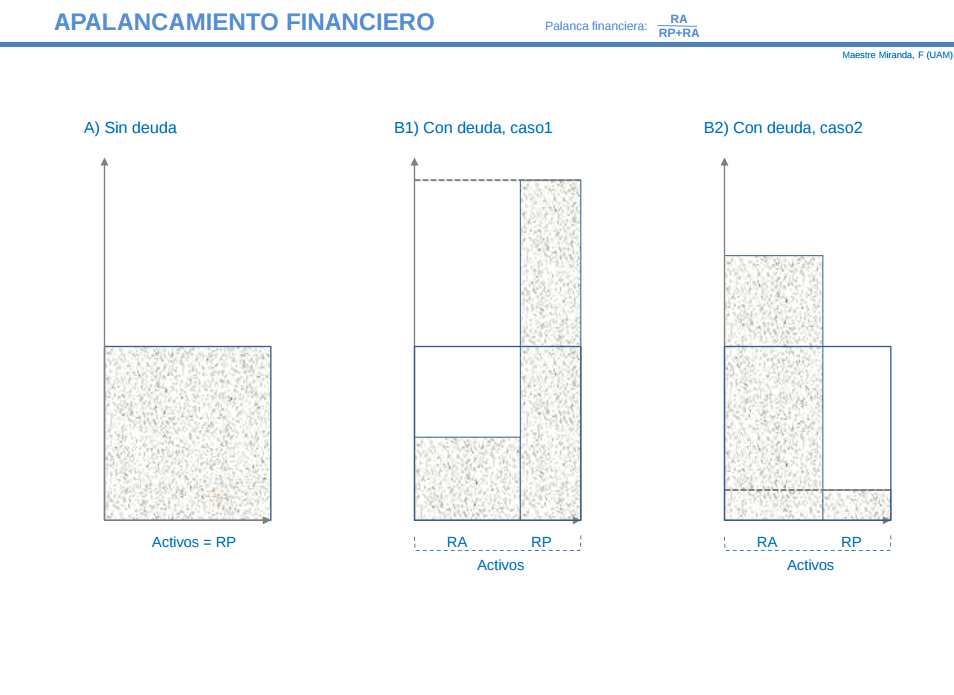
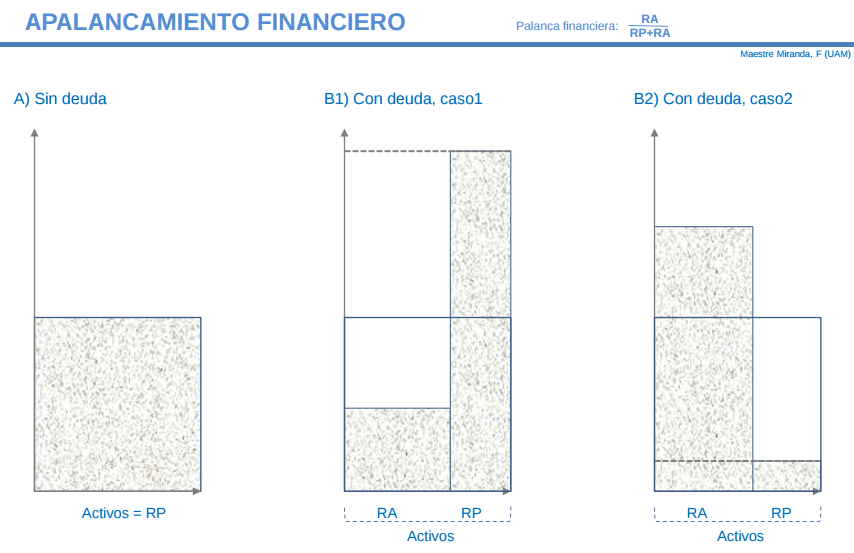
ORGEM: Pasado todo lo del cajón desastre a sus correspondientes secciones

diff --git a/Organizacion de Empresas/ORGEM.tex b/Organizacion de Empresas/ORGEM.tex
@@ -15,6 +15,8 @@
 \usepackage{soulutf8}
 \usepackage{enumitem}
 
+\setlist{itemsep=1pt, topsep=5pt}
+
 \newcommand{\study}[1]{#1} \newcommand{\substudy}[1]{#1}
 %\newcommand{\study}[1]{\hl{#1}} \newcommand{\substudy}[1]{\ul{#1}}
 \setulcolor{Orange}
@@ -1163,7 +1165,6 @@ Supongamos que una persona está contemplando la posibilidad de poner un kiosco 
 \item Luego tendrá que comprar otro equipamiento por unos 1000 \texteuro.
 \end{itemize}
 
-
 Además, un pequeño estudio de mercado y de la situación económica actual le permite ver que:
 \begin{itemize}
 \item La venta diaria se estima entre los 200 y los 300 euros.
@@ -1183,14 +1184,10 @@ Podemos poner un 23\% para realizar los cálculos.
 \item La tasa impositiva la calcula en un 20\% aproximadamente.
 \end{itemize}
 
-Procedemos a estudiar la previabilidad estática (con los datos aportados por las transparencias) \footnote{Lo que esta subrayado es lo que había que completar}:
+Procedemos a estudiar la previabilidad estática (con los datos aportados por las transparencias) \footnote{Lo que esta subrayado es lo que había que completar}. En la \fref{tab:CuotaMensualAmortizacion} vemos cuál sería la cuota mensual de amortización.
 
-
-\begin{center}
-Calculamos la cuota mensual de la amortización
-\end{center}
-
-\begin{center}
+\begin{table}
+\centering
 \normalfont\small
 \begin{tabular}{l|c|c|c}
 \textbf{Concepto} & \textbf{Inversión} & \textbf{Num años} & \textbf{Amortización} \\
@@ -1200,7 +1197,9 @@ Herramientas y otros & 1.000 & 3 & \underline{28} \\
 \bottomrule
 Total &21.000  & - & 361 \\
 \end{tabular}
-\end{center}
+\caption{Cálculo de la cuota mensual de amortización.}
+\label{tab:CuotaMensualAmortizacion}
+\end{table}
 
 Con esto podemos calcular la rentabilidad, para lo que empezamos calculando los ingresos netos mensuales.
 
@@ -1329,8 +1328,7 @@ Muchas \textit{startups}, especialmente las más conocidas, funcionan así con p
 \substudy{¿Dónde está el truco entonces?} Resulta que las \textit{startups} consiguen financiación gracias a los \substudy{inversores} de capital riesgo (VC, Venture Capitalists) y otros.
 Esta gente no busca rentabilidad, ni siquiera un modelo de negocio validado, sino principalmente crecimiento que en algún momento en el futuro se pueda convertir en dinero, no necesariamente sacado del funcionamiento de la empresa: basta con que otra más grande la compre (lo que se llama un \textit{exit}) para que los inversores recuperen lo invertido.
 
-Precisamente por eso se ha montado todo un ecosistema alrededor de las \textit{startups} y el mundo \textit{entrepeneur}\footnote{Nota: la mitad de la gente que pronuncia esta palabra (especialmente si te la dice en inglés mientras habla contigo en español) está vendiendo humo y/o no sabe de lo que habla.}:
-es un mundo con mucho riesgo (muchísimas empresas acaban fallando y perdiendo dinero a espuertas) pero también con muchas posibilidades de ganar mucho dinero, incluso teniendo en cuenta las compañías que fallan.
+Precisamente por eso se ha montado todo un ecosistema alrededor de las \textit{startups} y el mundo \textit{``entrepeneur''}: es un mundo con mucho riesgo (muchísimas empresas acaban fallando y perdiendo dinero a espuertas) pero también con muchas posibilidades de ganar mucho dinero, incluso teniendo en cuenta las compañías que fallan.
 Así se entiende el éxito de inversores y grupos de inversión, concursos de \textit{startups} y de aceleradoras como \href{https://www.ycombinator.com/}{Y Combinator}\footnote{Pongo a Y Combinator más que nada porque su ``líder'', Paul Graham, tiene \href{http://paulgraham.com/articles.html}{ensayos muy interesantes}, como \href{http://paulgraham.com/startuplessons.html}{este sobre las lecciones más importantes para una startup}, y en general es un tipo que, a pesar de estar metido en \textit{startups}, está alejado de la charla vacía, palabrería y humo que suele rodear a este mundo.},
 organizaciones que ``acogen'' \textit{startups} recién creadas y les dan un empujón (por eso lo de aceleradora) con una pequeña inversión, consejos técnicos y de organización y poniéndoles en contacto con otras empresas, inversores y periodistas.
 
@@ -1435,39 +1433,9 @@ Así estos préstamos \substudy{suelen} tener por objeto la compra de \substudy{
 
 Suelen tener un \substudy{plazo de recuperación} mucho \substudy{mayor} que el de los \textbf{préstamos personales} \substudy{y} tener un \substudy{interés variable} (en contra del interés fijo de los \textbf{préstamos personales}). Este tipo de interés variable suele hacerse empleando el Euribor, que explicamos en la sección \ref{sec:TiposInteres}
 
-\paragraph{Crisis económica}
-A lo largo del curso hemos comentado en diversas ocasiones cuál fue el origen de la crisis mundial que a día de hoy aún nos asola y el papel que tuvo esta empresa en dicho origen.
-
-El principal causante de la crisis financiera fue la \textbf{avaricia} de los bancos quienes, considerando que las cosas siempre irían bien y la economía nunca dejaría de crecer, comenzaron a conceder préstamos hipotecarios muy por encima de las posibilidades del cliente.
-
-Mientras las cosas fueron bien no hubo ningún problema, pero cuando empezó a fallar, los bancos se encontraron con un montón de préstamos que los clientes eran incapaces de pagar, lo que provocó la auténtica crisis.
-
-A priori puede parecer que esto debería haber perjudicado únicamente a los bancos pero esto no es así, puesto que los bancos \textbf{venden las deudas}. Para comprenderlo veamos un pequeño ejemplo, similar a algunos descritos por el profesor a lo largo del curso:
-
-\begin{example}
-Supongamos que tenemos tres compañeros: Pedro, Guillermo y Víctor.
-
-Guillermo tiene una gran cantidad de dinero acumulado y hará los papeles de banco. Víctor será quien demanda un préstamos y Pedro quien esté interesado, posteriormente, en comprar deuda.
-
-Guillermo le concede un préstamos a Víctor por valor de 1000 \texteuro . Como condición del préstamo, Víctor deberá pagar 100 \texteuro  todos los meses durante un año. A priori esto hace ganar a Guillermo 200 \texteuro  al final del año.
-
-Sin embargo, Guillermo quiere más. Puesto que pretende invertir y realizar más préstamos, le interesa recuperar el dinero cuanto antes. Así, vende la deuda de 1000 \texteuro  de Víctor, que Pedro compra con la esperanza de recibir 1100 \texteuro  a final de año.
-
-Con este sistema todos están contentos: Víctor ha recibido su préstamo, Guillermo acaba de ganar 100 \texteuro  y Pedro ganará 100 \texteuro , estando ambas ganancia estrechamente ligadas a la capacidad de pago mensual de Víctor.
-
-El problema viene cuando Víctor no puede pagar, Guillermo no se cubrió bien las espaldas y no tiene forma de recuperar su dinero y Pedro exige lo que le corresponde.
-\end{example}
-
-Otro factor importante en esta crisis fue el hecho de que la \substudy{deuda se vendía como} deuda sana, es decir, deuda que será pagada sin lugar a dudas pues ha sido \substudy{correctamente avalada}, \substudy{cuando realmente no lo era}.
-Así los clientes compraban deuda con un margen de beneficio ``pequeño'' porque era deuda saneada pero se encontraban con que esto no era cierto.
-
-Ante la posible idea de compensar al estafado y no ayudar al banco, cabe destacar que el banco no vendía la deuda de una persona a otra o a un conjunto de compradores en forma de bloque. De ser así podría identificarse a la víctima y ayudarla a recuperar su dinero.
-
-La realidad es mucho más compleja pues el \substudy{banco vende bloques de deuda} de forma que es imposible reconocer qué parte de la deuda de una persona compró quien con lo que \substudy{no es posible identificar a las víctimas de manera unívoca}.
-
 \subsubsection{Tipos de amortización}
 
-Los préstamos se pueden devolver (amortizar) según dos sistemas\footnote{\study{En España sólo existe el francés} y es muy difícil poder cambiarlo. En los países civilizados es posible negociar las condiciones creando préstamos \textbf{financieramente equivalentes} con las cuotas distribuidas de otra forma}: el americano o el francés.
+Los préstamos se pueden devolver (amortizar) según dos sistemas\footnote{\study{En España sólo existe el francés} y es muy difícil poder cambiarlo. En los países civilizados es posible negociar las condiciones creando préstamos \textbf{financieramente equivalentes} con las cuotas distribuidas de otra forma.}: el americano o el francés.
 El \concept{Préstamo\IS americano} consiste en ir \substudy{pagando en cada cuota los intereses fijos} del préstamo, y \substudy{en la última devolver el importe íntegro} del mismo.
 A veces, en lugar de devolver ese importe de golpe lo que se hace es ir depositando aportaciones en un fondo periódicamente, de tal forma que se vayan generando intereses ahí y podamos usar ese dinero acumulado para devolver el monto del préstamo.
 
@@ -1500,7 +1468,7 @@ En el segundo plazo, volveremos a pagar los 811 \texteuro, pero esta vez habrá 
 
 En el segundo plazo pagamos 263 \texteuro de intereses y (811-263) = 548 \texteuro
 
-Así, sucedáneamente llegaríamos a completar la tabla entera, que podemos encontrar en el apéndice \ref{sec:Prestamos}
+Así, al final llegaríamos a completar la tabla entera, que podemos encontrar en el apéndice \ref{sec:Prestamos}
 
 \paragraph{Americano} Como es una amortización americana, sólo vamos pagando los intereses en cada plazo, esto es, 267\texteuro. Esta será nuestra cuota los primeros 59 plazos y en el último plazo tendremos que pagar 40.267\texteuro.
 \end{example}
@@ -1520,7 +1488,35 @@ Aquí merece la pena mencionar el tema de las \concept{Cláusula\IS suelo}, una 
 así, si tenemos un tipo de interés Euribor + 0,5\% con una cláusula suelo del 2\%, aunque el Euribor baje al 0,5\% nosotros seguiremos pagando un bonito 2\% de interés. \substudy{No es una cláusula ilegal, aunque sí cuando} se pone de forma abusiva o no se informa de ello al consumidor.
 Últimamente, pocos bancos ponen esta cláusula.
 
+\subsection{Hipotecas y crisis económica}
 
+A lo largo del curso hemos comentado en diversas ocasiones cuál fue el origen de la crisis mundial que a día de hoy aún nos asola y el papel que tuvieron empresas como Lehman Brothers en dicho origen.
+
+El principal causante de la crisis financiera fue la \textbf{avaricia} de los bancos quienes, considerando que las cosas siempre irían bien y la economía nunca dejaría de crecer, comenzaron a conceder préstamos hipotecarios muy por encima de las posibilidades del cliente. Estas eran las \concept{Hipoteca\IS subprime}, orientadas a clientes con escasa solvencia (y por lo tanto mayor riesgo de impago) con intereses y comisiones más elevados.
+
+Mientras las cosas fueron bien no hubo ningún problema. Ahora bien, cuando el precio de las casas empezó a bajar, bajó también la capacidad de gasto de esas familias y el impago de las hipotecas subió. Los bancos, que estimaban el riego de forma independiente por cada hipoteca, no tuvieron en cuenta que riesgo de impago de una hipoteca estaba muy correlacionado con el de el resto: los consumidores no están aislados y un freno de la economía llevaría a muchos al impago con alta probabilidad. Así, no estaban preparados para un nivel de impago tan alto y por lo tanto se encontraron con que ciertos productos financieros cayeron de valor precipitadamente.
+
+A priori puede parecer que esto debería haber perjudicado únicamente a los bancos que concedían las hipotecas pero esto no es así, puesto que los bancos \textbf{venden las deudas}. Para comprenderlo veamos un pequeño ejemplo, similar a algunos descritos por el profesor a lo largo del curso:
+
+\begin{example}
+Supongamos que tenemos tres compañeros: Pedro, Guillermo y Víctor.
+
+Guillermo tiene una gran cantidad de dinero acumulado y hará los papeles de banco. Víctor será quien demanda un préstamo y Pedro quien esté interesado, posteriormente, en comprar deuda.
+
+Guillermo le concede un préstamo a Víctor por valor de 1000 \texteuro . Como condición del préstamo, Víctor deberá pagar 100 \texteuro  todos los meses durante un año. A priori esto hace ganar a Guillermo 200 \texteuro  al final del año.
+
+Sin embargo, Guillermo quiere más. Puesto que pretende invertir y realizar más préstamos, le interesa recuperar el dinero cuanto antes. Así, vende la deuda de 1000 \texteuro  de Víctor, que Pedro compra con la esperanza de recibir 1100 \texteuro  a final de año.
+
+Con este sistema todos están contentos: Víctor ha recibido su préstamo, Guillermo acaba de ganar 100 \texteuro  y Pedro ganará 100 \texteuro , estando ambas ganancia estrechamente ligadas a la capacidad de pago mensual de Víctor.
+
+El problema viene cuando Víctor no puede pagar, Guillermo no se cubrió bien las espaldas y no tiene forma de recuperar su dinero y Pedro exige lo que le corresponde.
+\end{example}
+
+Otro factor importante en esta crisis fue el hecho de que la \substudy{deuda se vendía como} deuda sana, es decir, deuda que será pagada con alta probabilidad pues ha sido \substudy{correctamente avalada}, \substudy{cuando realmente no lo era}. Así los clientes compraban deuda con un margen de beneficio ``pequeño'' porque era deuda saneada pero se encontraban con que esto no era cierto.
+
+Ante la posible idea de compensar al estafado y no ayudar al banco, cabe destacar que el banco no vendía la deuda de una persona a otra sino a un conjunto de compradores en forma de bloques de deuda (las llamadas CDOs\footnotemark). Así, es imposible reconocer qué parte de la deuda de una persona compró quien con lo que \substudy{no es posible identificar a las víctimas de manera unívoca}.
+
+\footnotetext{A grandes rasgos, en una CDO una entidad financiera construye una empresa. Esta empresa emite bonos a inversores y con ese dinero compra activos, como hipotecas o deuda de otros bancos. Cuando esas hipotecas y deudas vencen, ese importe acaba en la empresa y por lo tanto da beneficios a los inversores. El problema es que había ``escalones'' de bonos: los beneficios iban primero a parar a los inversores después del escalón, después a los del segundo, etc. Los últimos eran los primeros en asumir pérdidas si había impagos. Esto podía llevar a problemas graves, como CDOs creadas con bonos del último escalón de otros CDOs: con muchos impagos, estas CDOs encadenadas pasaban a valer cero en un momento.}
 
 \subsection{Estructura financiera}
 Hemos comentado, al hablar de los préstamos, que los grandes empresarios acostumbran a vivir endeudados, puesto que sacan gran rentabilidad al dinero. Vamos a ver detenidamente cómo analizar la situación de la empresa para ver en qué momento nos interesa endeudarnos y cuándo no.
@@ -1566,8 +1562,8 @@ La pregunta ahora es clara \textbf{¿Cuándo interesa a una empresa apalancarse?
 
 \begin{figure}[hbtp]
 \centering
-\includegraphics[width=\textwidth]{img/apalancamiento.png}
-\caption{Las tres empresas tienen el mismo capital (los mismos recursos) pero con distinta proporcion de RA (Recursos Ajenos) y RP (Recursos Propios)}
+\includegraphics[width=0.8\textwidth]{img/apalancamiento.png}
+\caption{Las tres empresas tienen el mismo capital (los mismos recursos) pero con distinta proporcion de RA (Recursos Ajenos) y RP (Recursos Propios).}
 \label{fig:ApalancamientoFinanciero}
 \end{figure}
 
@@ -1621,7 +1617,7 @@ En la figura \ref{fig:Letra} encontramos un ejemplo de una letra con todos sus e
 
 \paragraph{Endosos: }
 El pago de la letra de cambio se puede realizar al librador o a un tercero llamado beneficiario, \substudy{tomador o tenedor}, a quien el librador ha transmitido o endosado la letra de cambio.
-Aquel que endosa una deuda es un \textbf{endosante} y aquel a quien es endosada es un \textbf{endosatario}\footnote{Que no son insultos ninguna de las 2 palabras}. Más formalmente, \substudy{el endoso consiste en la transmisión a un tercero de los derechos de cobro derivados de la letra de cambio}
+Aquel que endosa una deuda es un \textbf{endosante} y aquel a quien es endosada es un \textbf{endosatario}\footnote{Que no son insultos ninguna de las 2 palabras.}. Más formalmente, \substudy{el endoso consiste en la transmisión a un tercero de los derechos de cobro derivados de la letra de cambio}
 
 
 \paragraph{Aceptación: }Tal y como dice el refranero español, 2 no se endeudan si uno no quiere. ¿Qué ocurre si el librador (cobrador,tenedor) ordena a una persona que en realidad no le debe dinero? Obviamente esto no puede ocurrir y el librado (deudor) tiene que aceptar la letra para que esta sea válida.
@@ -1673,7 +1669,7 @@ Pero, ¿por qué hemos podido comprar la letra por menos valor? Porque las Letra
 
 \subsubsection{Factoring}
 
-Es una operación financiera que consiste en la cesión a un factor (empresa de "factoring") de créditos comerciales\footnote{las letras de cambio son créditos comerciales} por parte de una empresa, a cambio de un importe convenido.
+Es una operación financiera que consiste en la cesión a un factor (empresa de "factoring") de créditos comerciales\footnote{Las letras de cambio son créditos comerciales.} por parte de una empresa, a cambio de un importe convenido.
 La sociedad especializada (denominada factor) asume el riesgo de insolvencia del crédito y se encarga de su cobro a cambio de una comisión de "factorage" sobre el importe de la factura.
 
 Si te parece que es exactamente lo mismo el factoring que un descuento, vas por buen camino querido lector. Vamos a ver los matices que los diferencian para poder utilizar estas palabras pensando que sabemos de lo que hablamos.
@@ -1687,124 +1683,35 @@ En la tabla \ref{tab:FactoringVsDescuento} encontramos varias diferencias de man
 
 \begin{table}[hbtp]
 \centering
-\begin{tabular}{|r||l|l|}
-\hline
+\begin{tabular}{r||l|l}
 &\textbf{Factoring} &\textbf{Descuento} \\
-\hline\hline
+\toprule
 Documento & Factura & Letra de cambio\\
 Pago anticipado & Flexible & A tocateja\\
-Cobertura de impago & Es posible\footnote{En caso de ser factoring sin recurso, la cobertura de pago está incluida. Si el factoring es con recurso, entonces no. (Con recurso implica que la empresa de factor puede quejarse a ti, que le has contratado y recurrir esa deuda)} & No\\
-Otros servicios & Es posible\footnote{Depende del contrato de factoring que contrates y con quien lo contrates.} & No\\
-\hline
+Cobertura de impago & Es posible\footnote{En caso de ser factoring sin recurso, la cobertura de pago está incluida. Si el factoring es con recurso, entonces no. (Con recurso implica que la empresa de factor puede quejarse a ti, que le has contratado y recurrir esa deuda).} & No\\
+Otros servicios & Es posible\footnote{Depende del contrato de factoring que contrates y con quien lo contrates.} & No
 \end{tabular}
-\label{tab:FactoringVsDescuento}
 \caption{\study{Diferencias entre Factoring y descuento bancario}}
+\label{tab:FactoringVsDescuento}
 \end{table}
 
 \obs En caso de que una empresa de factoring esté dispuesta a asumir los impagos, ésta querrá asegurarse que los deudores van a pagar las deudas.
 En ese caso, la empresa de factoring contratada limitará los negocios de quien le haya contratado para que sólo haga negocios con empresa confiables.
 
-% Copiado (mal) de los apuntes de Edu. Es cierto que lo he copiado fatal, pero básicamente es lo que dice Miranda en sus clases.
-% % % % % %
-% % % % % %
-% % % % % %
-% % % % % %
+\subsection{Deudas y herencias}
 
-\subsection{Cajón desastre}
+Igual que las deudas se pueden comprar y vender, también pueden heredarse. Sólo se puede evitar o bien rechazando toda la herencia, o bien rechazando las deudas en un juicio (un método que no es infalible). En el caso de que todos los herederos rechacen la herencia, los acreedores cobrarán a beneficio de esa herencia. En cualquiera de los casos, son los acreedores los que han de encontrar a los sucesores, pudiendo solicitar al juzgado la correspondiente identificación.
 
-\textcolor{blue}{Lo que indique a en azul continuación lo aporta Pedro de lo que recuerda de clase. Esta sección será eliminada del dosier final (lógico) y añadiré donde corresponda lo que sea necesario (si es que hay algo)}
+Además, hay que tener en cuenta que si heredas dinero, esa herencia lleva unos impuestos que tienes que pagar antes de recibir el dinero.
 
-\paragraph{Apuntes de Edu}
-Letras, tenedor, endoso, deudor. Negociar con sus letras y pagar, antender la letra, endosar = traspasar, atenteder = tener fondos para pagarla. EL último tenedor cobra. La justicia va a por el qeue descontó la letra????  Letras del tesoro, letra de 1000, te adelantan y tienes que pagar. Para descontar letras hay que tener fondos, una persona física no puede descontar una letra. Factoring.
+Situación: Tu padre gana la lotería el día antes de su fallecimiento. Gana 500.000 \texteuro en efectivo que vas a heredar tu. La \fref{fig:SimulacionHerencia} simula la deuda que tu contraes antes de oler el dinero (a menos que renuncies a la herencia)
 
-\color{blue}
-
-Sobre las letras del tesoro el profesor hablaba de cuando en cuando. No es mas que una forma de ``guardar'' tu dinero, ``alternativa'' a meterlo en un banco.
-
-La idea es que es similar a una acción, solo que la fluctuación es mucho menor. Cuando las cosas van bien te genera un rendimiento mejor que un banco y tienes la ``seguridad'' de que el estado no va a quebrar, por lo que no perderás todo tu dinero (y si quiebra tendrás problemas más importantes xd).
-
-Formalmente y según la página del gobierno:
-
-``LETRAS: Son valores de renta fija a corto plazo (3-6-9 y 12 meses), se emiten a través de subastas. Generalmente, las Letras a 3 y 9 meses se subastan el cuarto martes de cada mes y las Letras a 6 y 12 meses se subastan generalmente el tercer martes de cada mes.
-
-Se emiten al descuento por lo que el precio de compra será inferior al valor nominal, salvo en el caso de rentabilidades negativas.
-
-VALOR NOMINAL: 1.000 € por título.
-
-En caso de invertir una cantidad mayor, siempre ha de ser en múltiplos de 1.000 euros.
-
-La rentabilidad obtenida por las Letras al final del periodo es la diferencia entre lo que se paga por ellas y lo que nos devuelven a fecha de vencimiento, que es el nominal solicitado, en este caso los 1.000 € .''
-
-No se ha detenido en ningún momento a explicarlas ni a centrarse en ellas, simplemente lo menciona de manera tangencial de vez en cuando, como lo de su novia Polaca, sus bares de comas, su amigo ex diplomatico que montó una gasolinera en cantoblanco y no le importaba el capital porque estaba dispuesto a pedir el préstamo que fuese necesario o la exmujer de un amigo a la que invitaba a casa con intención de lucro.
-
-Mirar esta pagina para algun detalle mas \href{http://www.finanzasparatodos.es/es/productosyservicios/productosinversionrentafija/deudapublica.html}{deuda publica.}
-
-\color{black}
-Hipotecas titulizar los derechos propios. Se descuentan las cuoas. Dosificar riesgo. Lehman brothers reparte hipotecas de alto riego. Pablo Iglesias: autónomo, módulos vs contabilidad, sujeto pasivo. Crisis de Lehman brother sotra vez. Préstabmos.
-
-\color{blue}
-
-De las hipotecas ya hablamos en algún momento en estos apuntes. Poco más ha comentado. Recalca el problema de Lehman brothers y la burbuja inmobiliaria en general. Se concedían préstamos a diestro y siniestro sin tener garantía de poder cobrarlo, cuando la cosa fue un poco mal, a tomar por saco todo.
-
-Añadiré algo de esto a los apuntes porque me parece interesante.
-
-Según wikipedia:
-``Las hipotecas de alto riesgo, conocidas en Estados Unidos como crédito subprime, eran un tipo especial de hipoteca, preferentemente utilizado para la adquisición de vivienda, y orientada a clientes con escasa solvencia, y por tanto con un nivel de riesgo de impago superior a la media del resto de créditos. Su tipo de interés era más elevado que en los préstamos personales (si bien los primeros años tienen un tipo de interés promocional), y las comisiones bancarias resultaban más gravosas.1 Los bancos norteamericanos tenían un límite a la concesión de este tipo de préstamos, impuesto por la Reserva Federal.
-
-Dado que la deuda puede ser objeto de venta y transacción económica mediante compra de bonos o titularizaciones de crédito, las hipotecas subprime podían ser retiradas del activo del balance de la entidad concesionaria, siendo transferidas a fondos de inversión o planes de pensiones. En algunos casos, la inversión se hacía mediante el llamado carry trade. El problema surge cuando el inversor (que puede ser una entidad financiera, un banco o un particular) desconoce el verdadero riesgo asumido. En una economía global, en la que los capitales financieros circulan a gran velocidad y cambian de manos con frecuencia y que ofrece productos financieros altamente sofisticados y automatizados, no todos los inversores conocen la naturaleza última de la operación contratada. Uno de estos productos que resultó particularmente nocivo fueron las obligaciones colateralizadas mediante deuda (CDO). Las agencias de calificación asignaron calificaciones buenas (triple A o AAA) y bajo riesgo de impago a estos productos financieros (CDO), así por ejemplo Standard \& Poor's cifró en solo 0,12\% (1 entre 850) la probabilidad de impago de varias CDO en los siguientes 5 años a su calificación,2 aunque posteriormente los datos internos de S\&P para calificación revelaron que dicha probabilidad había sido 28\% (unas doscientas veces superior).3''
-
-Como idea que si que recuerdo de este tema: \textbf{comprar deuda}. Supongamos que Julian tiene pasta, yo soy un banco y De Juan anda arruinadete (situación inimaginable).
-
-De Juan me pide 1000 euros, yo se que puede que no me los devuelva o que no le apetezca venir a jugar al futbol el dia que me los tiene que devolver pero aun asi se los presto y que me page 100 euros cada mes durante un año (alto riesgo de que no me lo pague).
-
-Yo digo, ¿para que esperar? y le ofrezco a Julian comprar deuda de De Juan por 1100 euros con la idea de que le pagaré 1200 a final de año. El problema es que De Juan no paga y Julian se come el marron. Lo grave de Lehman brothers es que hicieron esto sin avisar a Julian del alto riesgo de impago (que asume el comprador de deuda) y ahí está la ilegalidad de estos broders. Encima como no es claro que Julian compre deuda de De Juan sino que compra deuda que alguien tiene con mi banco asi que parte de lo que compra va bien, otra parte mal y se monta el lio.
-
-\color{black}
-
-Tipos de préstamos: del crédito: la entidad financiera pone un capital a disposición en una cuenta corriente contra la que puedes cargar talones y pagarés. DPréstamo: la entrega efectiva en su totalidad de un capital a cambio del pago de intereses y del mismo.
-
-\textcolor{blue}{Esto si que si está explicado en los apuntes.}
-
-Herederos: puedes asumir deudas de tus padres, puedes rechazarlas pero ir ajuioci y te las pueden dar. Dación en pago. ROE del bancho es un 30 y pico el spread de un banco es de un 8-9.
-
-\color{blue}
-
-Cuando heredas algo hay dos detalles importantes y puñeteros:
-\begin{enumerate}
-\item Si heredas pasta, esa herencia lleva unos impuestos que tienes que pagar antes de recibir el dinero.
-
-Situación: Tu padre gana la lotería el día antes de su fallecimiento. Gana 500.000 \texteuro en efectivo que vas a heredar tu. La siguiente imagen simula la deuda que tu contraes antes de oler el dinero (a menos que renuncies a la herencia)
-
-\begin{center}
+\begin{figure}[hbtp]
+\centering
 \includegraphics[width=0.7\textwidth]{img/simulacion_sucesiones.png}
-\end{center}
-
-\item Las deudas que tuviera tu padre en principio parecen perderse, pero el banco tiene el derecho a indagar, encontrarte y encasquetarte la deuda. Si renuncias a toda la herencia pues el banco se abastece de lo que tuviera el difunto, pero si te llevas algo de herencia te llevas toooda la deuda posible.
-
-\end{enumerate}
-
-\color{black}
-
-Euribor.  scalping, nyse máquinas de opraciones.
-
-\textcolor{blue}{Euribor es el interes de prestamo monetario entre bancos, rige los intereses de muchos prestamos/hipotecas. Poco mas. Del resto ni idea}
-
-Comisiones por desisitir, subrogar, apertura y cambio de condiciones.
-\color{blue}
-Algunos bancos malnacidos te obligan a pagar un extra si quieres pagar parte de la deuda antes de lo previso, o si quieres abrir una cuenta o si quieres cambiar cualquier condición.
-
-Insiste en que no hay que ir al banco como va la gente, a suplicar dinero, hay que ir en modo pussy destroyer y exigir lo que quieres y como lo quieres. Segun entres pide hablar con el encargado
-\color{black}
-
-Reunificar dedudas. Para negociar un rp´restamo preguntar por el importe, negociar con el director
-
-Tipos de ineterés 10\% a diez años.
-
-Discusión banca pública vs privada????
-
-\textcolor{blue}{Esta discusión la tuvo solo Edu creo xd. El profesor insiste en que sanidad, educación y justicia deben ser públicos. Todo lo demás privado y que haya competencia para que se beneficie al consumidor.}
-
-PRU: rpéstamo renta universitaria funanciado por ICO. ESTAFA. WTF.
+\caption{Simulación del impuesto de sucesiones.}
+\label{fig:SimulacionHerencia}
+\end{figure}
 
 \section{Evaluación de proyectos de inversión}
 Con todo lo visto hasta ahora hay poco que añadir en esta sección aparte de las definiciones/explicaciones presentes en el apéndice \ref{sec:ProyectoInversion}.
